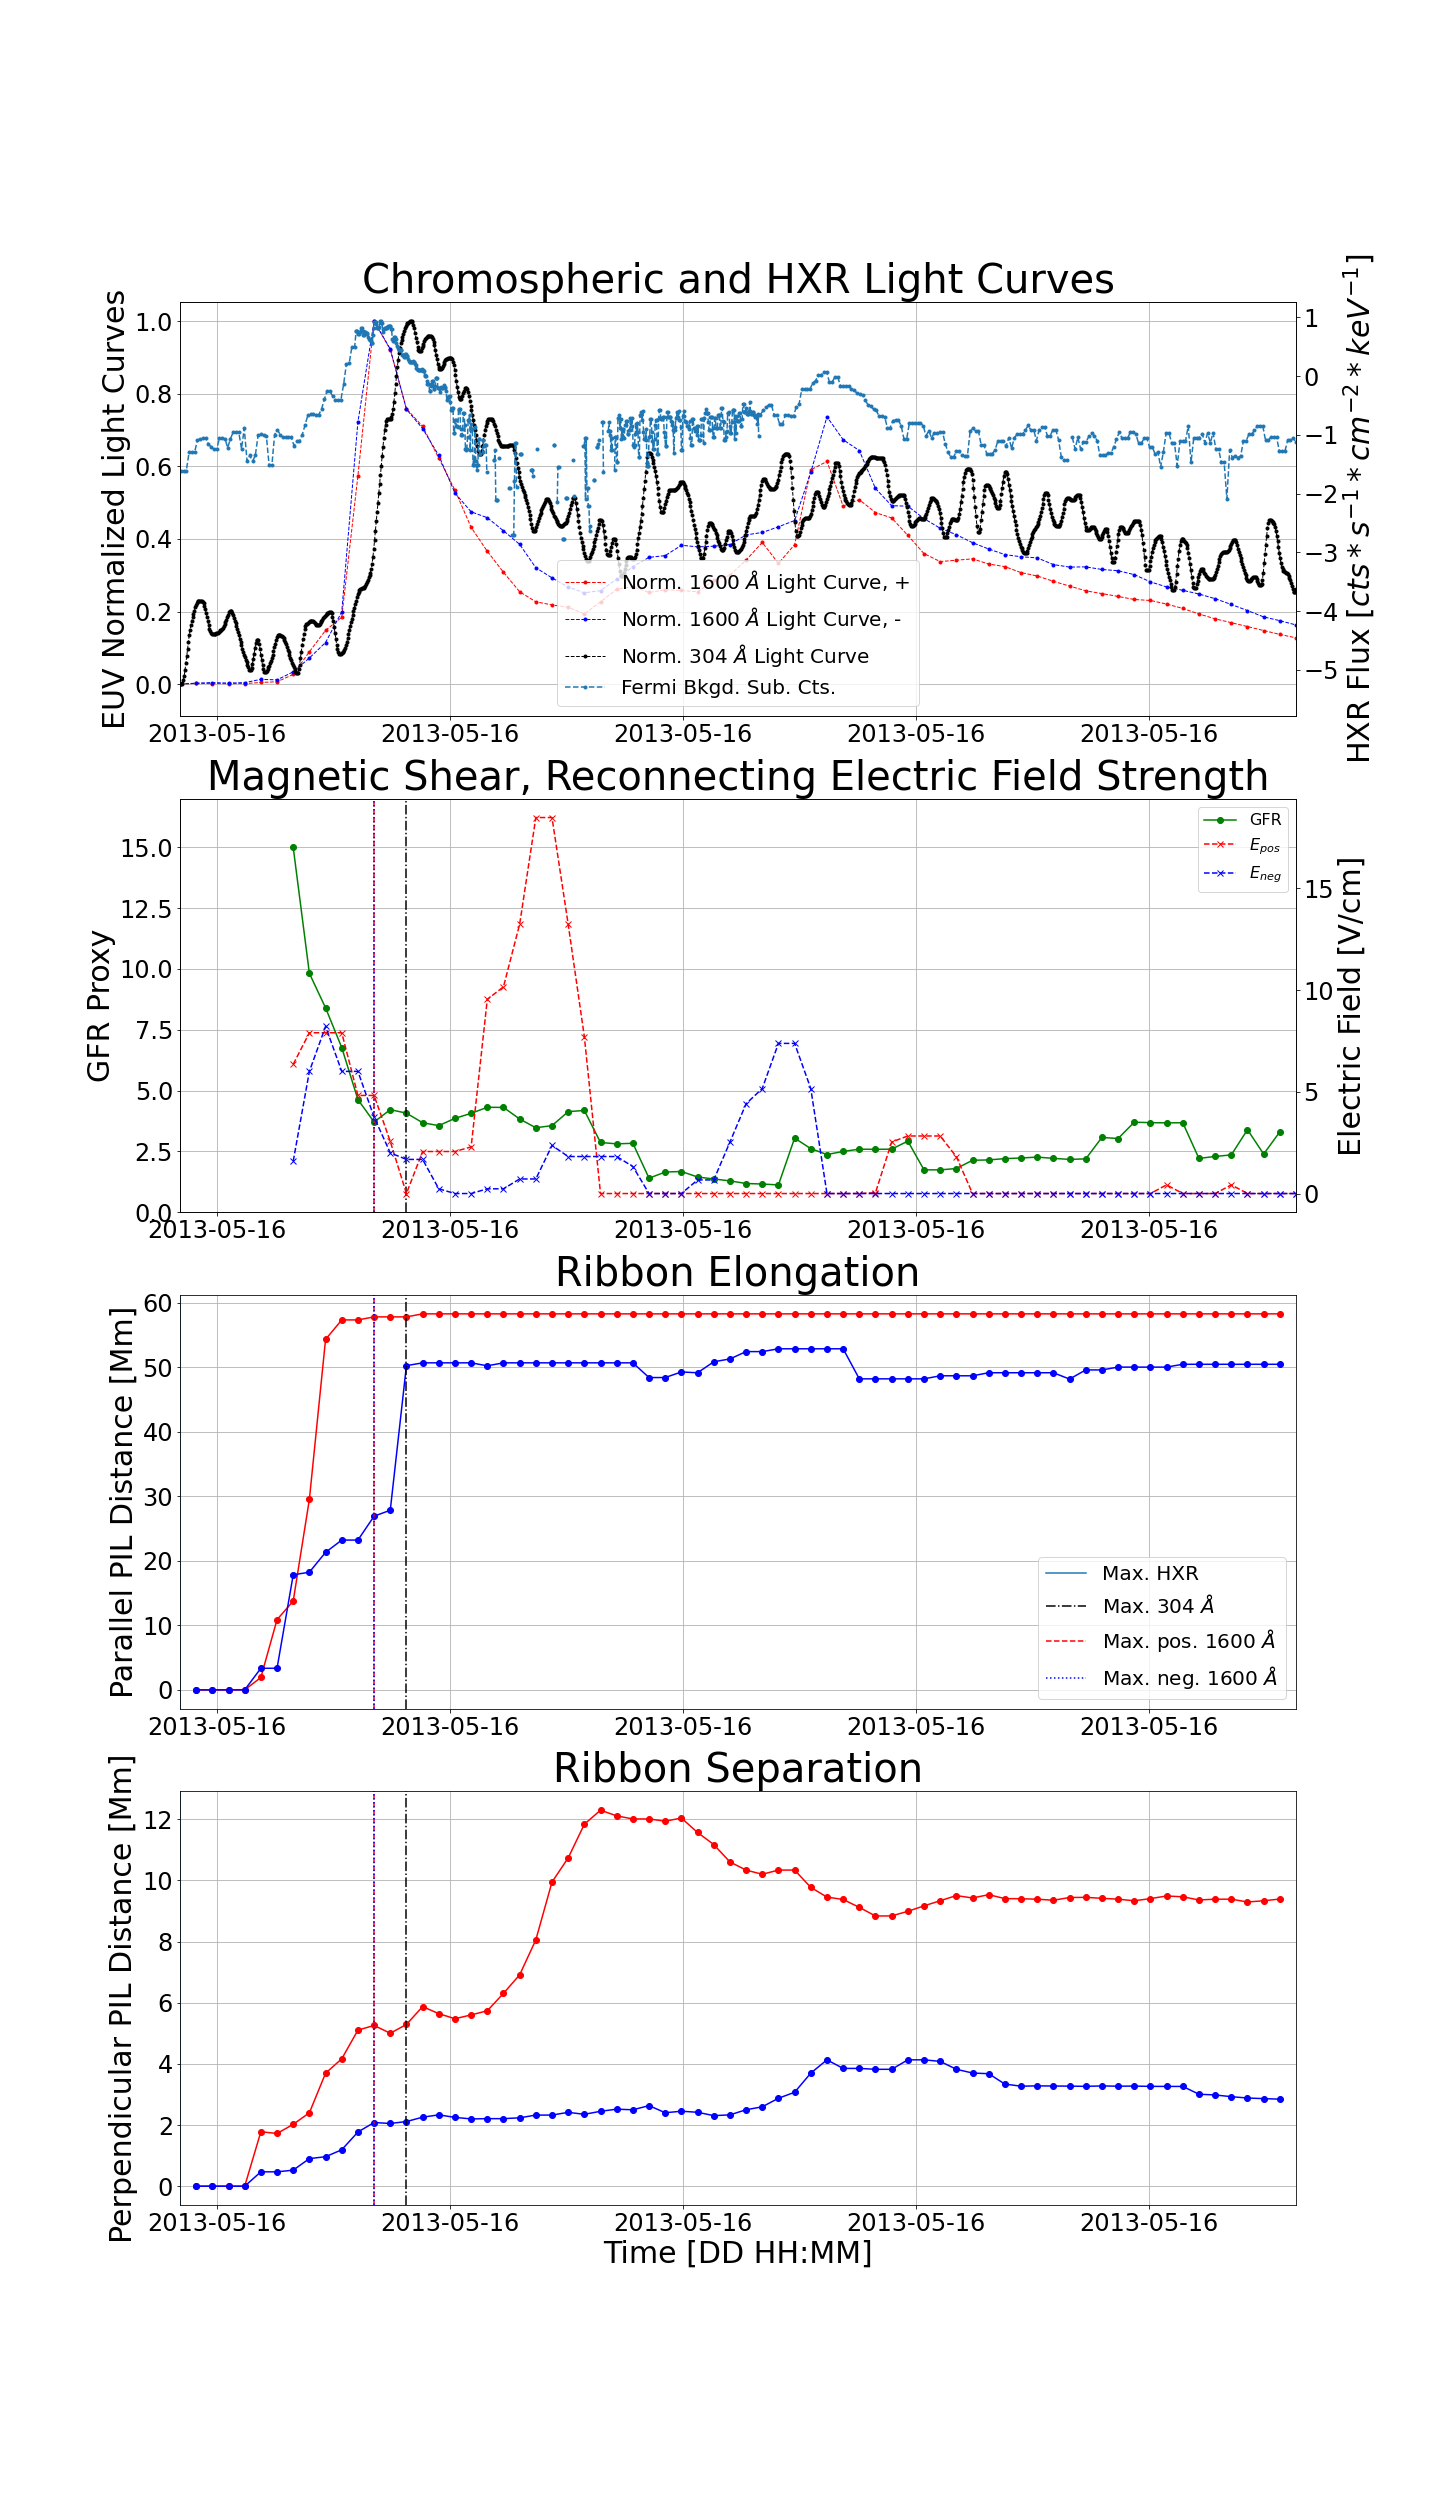
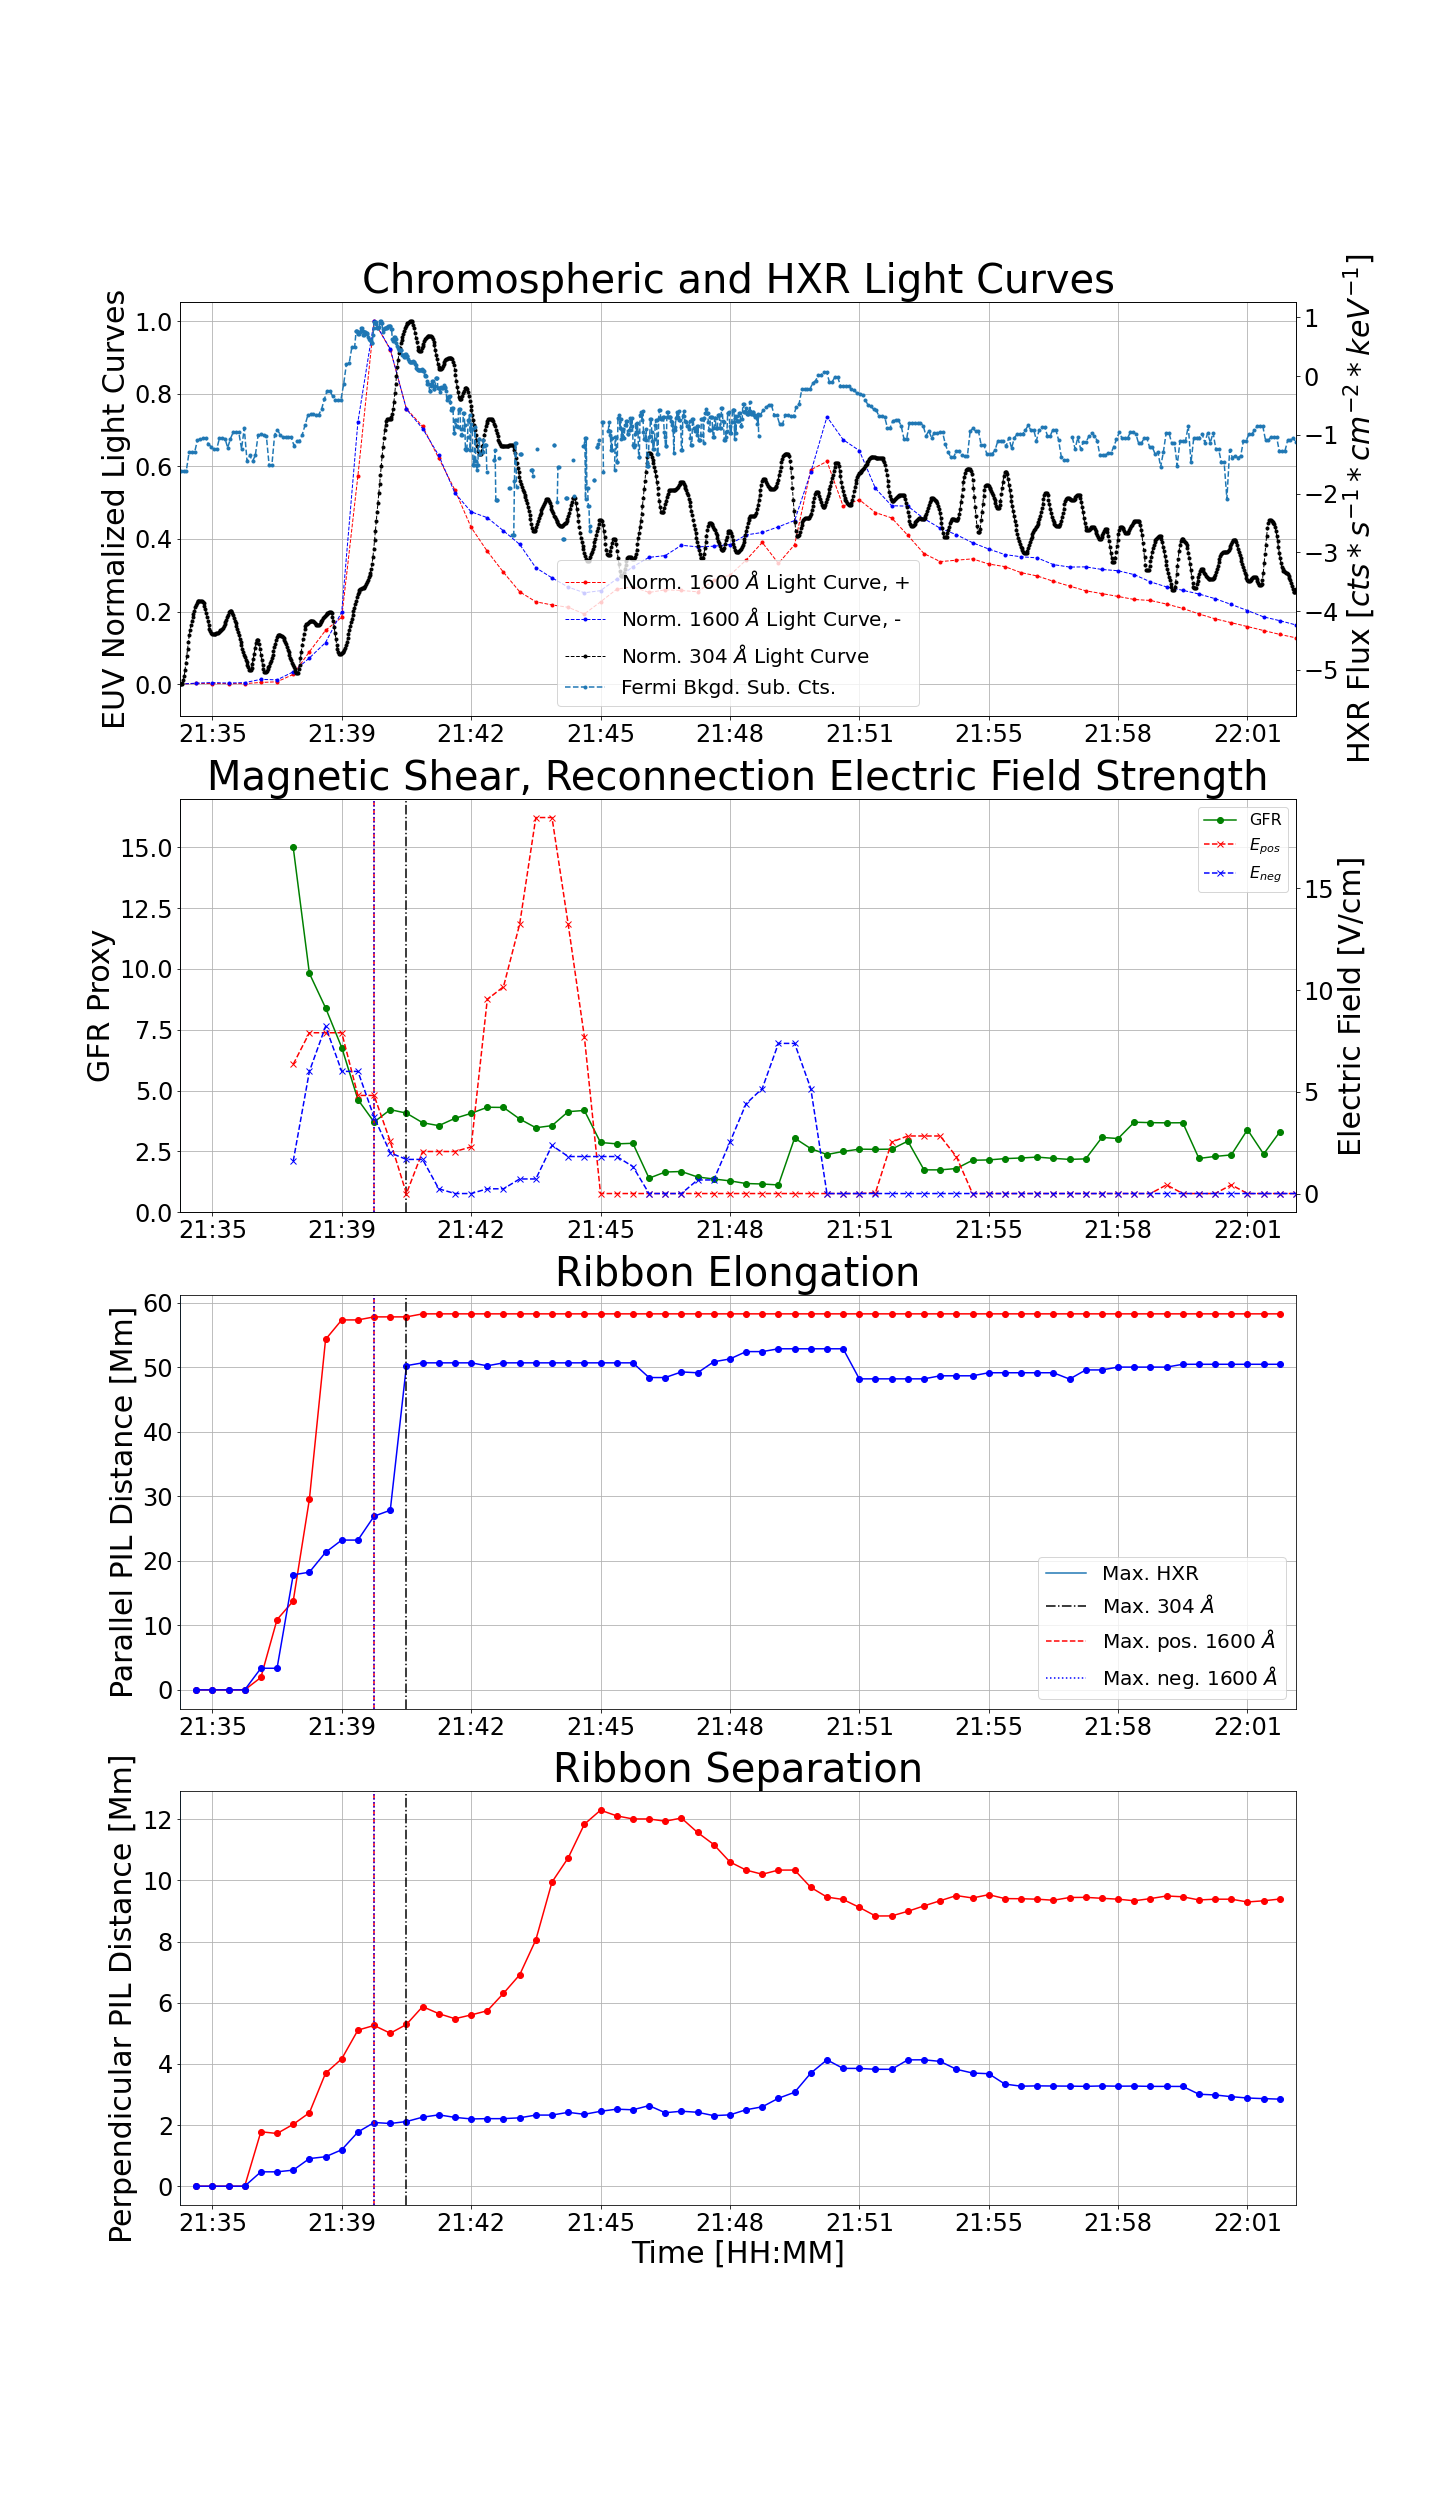
low1 edits

diff --git a/fl_funcs.py b/fl_funcs.py
@@ -4234,7 +4234,7 @@ def plt_fourpanel(times, right_gfr, left_gfr, flnum, dt1600, time304,
 
 
     ax2.set_ylabel('GFR Proxy', fontsize=30)
-    ax2.set_title('Magnetic Shear, Reconnecting Electric Field Strength', fontsize=40)
+    ax2.set_title('Magnetic Shear, Reconnection Electric Field Strength', fontsize=40)
     ax2.set_ylim([0,np.nanmax(GFR[gfr_trans:])+2])
     ax2.grid()
 
@@ -4324,22 +4324,22 @@ def plt_fourpanel(times, right_gfr, left_gfr, flnum, dt1600, time304,
     ax4.axvline(dt1600[max1600neg], color='blue',
                 label=r'Max. neg. 1600 $\AA$', linestyle='dotted')
     ax4.grid()
-    ax4.set_xlabel('Time [DD HH:MM]',
+    ax4.set_xlabel('Time [HH:MM]',
                    fontsize=30)
     
     if tick_space == 1:
-        ax1.set_xticks(dt1600[2::4])
-        ax2.set_xticks(dt1600[2::4])
-        ax3.set_xticks(dt1600[2::4])
-        ax4.set_xticks(dt1600[2::4])
-        ax1_0.set_xticks(dt1600[2::4])
-        ax2_0.set_xticks(dt1600[2::4])
-        ax1.set_xticklabels(dt1600_1[2::4])
-        ax2.set_xticklabels(dt1600_1[2::4])
-        ax3.set_xticklabels(dt1600_1[2::4])
-        ax4.set_xticklabels(dt1600_1[2::4])
-        ax1_0.set_xticklabels(dt1600_1[2::4])
-        ax2_0.set_xticklabels(dt1600_1[2::4])
+        ax1.set_xticks(dt1600[2::8])
+        ax2.set_xticks(dt1600[2::8])
+        ax3.set_xticks(dt1600[2::8])
+        ax4.set_xticks(dt1600[2::8])
+        ax1_0.set_xticks(dt1600[2::8])
+        ax2_0.set_xticks(dt1600[2::8])
+        ax1.set_xticklabels(dt1600_1[2::8])
+        ax2.set_xticklabels(dt1600_1[2::8])
+        ax3.set_xticklabels(dt1600_1[2::8])
+        ax4.set_xticklabels(dt1600_1[2::8])
+        ax1_0.set_xticklabels(dt1600_1[2::8])
+        ax2_0.set_xticklabels(dt1600_1[2::8])
 
 
     ax1.xaxis.set_tick_params(labelsize=24)
